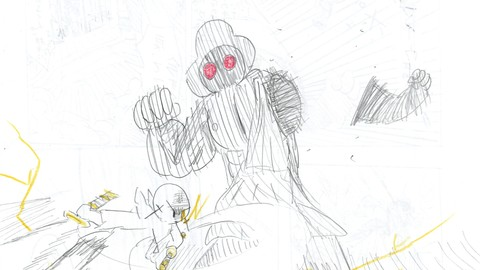
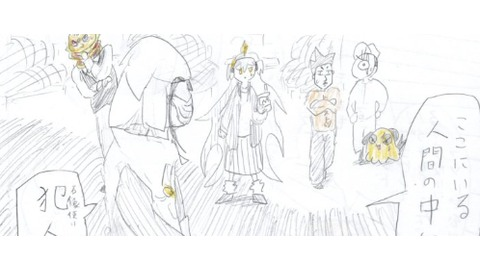
Add files via upload

diff --git a/index.html b/index.html
@@ -150,16 +150,16 @@ body{margin:0;background:#fff;color:#111;font-family:-apple-system,BlinkMacSyste
 <img class="episode-thumb" src="pages/thumb-episode05.jpg" alt="第5話 クソゲームかよ">
 <div class="episode-meta"><div class="episode-title">第5話 <span>クソゲームかよ</span></div></div>
 <div class="episode-read">読む</div></a><a class="episode-row" href="episode6.html" data-ep="6">
-<img class="episode-thumb" src="pages/thumb-episode06.jpg" alt="第6話 犯人探しまーす。">
+<img class="episode-thumb" src="pages/thumb-episode06.jpg" alt="第6話 サムネイル">
 <div class="episode-meta"><div class="episode-title">第6話 <span>犯人探しまーす。</span></div></div>
 <div class="episode-read">読む</div></a><a class="episode-row" href="episode7.html" data-ep="7">
-<img class="episode-thumb" src="pages/thumb-episode07.jpg" alt="第7話 西京家では最強だね。">
+<img class="episode-thumb" src="pages/thumb-episode07.jpg" alt="第7話 サムネイル">
 <div class="episode-meta"><div class="episode-title">第7話 <span>西京家では最強だね。</span></div></div>
 <div class="episode-read">読む</div></a><a class="episode-row" href="episode8.html" data-ep="8">
 <img class="episode-thumb" src="pages/thumb-episode08.jpg" alt="第8話 雷も超能力で止められるのだろうか？">
 <div class="episode-meta"><div class="episode-title">第8話 <span>雷も超能力で止められるのだろうか？</span></div></div>
 <div class="episode-read">読む</div></a><a class="episode-row" href="episode9.html" data-ep="9">
-<img class="episode-thumb" src="pages/thumb-episode09.jpg" alt="第9話 最近のCGはスゴイですね。">
+<img class="episode-thumb" src="pages/thumb-episode09.jpg" alt="第9話 サムネイル">
 <div class="episode-meta"><div class="episode-title">第9話 <span>最近のCGはスゴイですね。</span></div></div>
 <div class="episode-read">読む</div></a><a class="episode-row" href="episode10.html" data-ep="10">
 <img class="episode-thumb" src="pages/thumb-episode10.jpg" alt="第10話 ゆうり先生">
@@ -195,34 +195,34 @@ body{margin:0;background:#fff;color:#111;font-family:-apple-system,BlinkMacSyste
 <img class="episode-thumb" src="pages/thumb-episode20.jpg" alt="第20話 サムネイル">
 <div class="episode-meta"><div class="episode-title">第20話 <span>能力者バトルにおいて最強とは初見殺しがベスト</span></div></div>
 <div class="episode-read">読む</div></a><a class="episode-row" href="episode21.html" data-ep="21">
-<div class="episode-thumb placeholder thumbnail-pending" aria-label="第21話 サムネイル未設定"></div>
+<img class="episode-thumb" src="pages/thumb-episode21.jpg" alt="第21話 サムネイル">
 <div class="episode-meta"><div class="episode-title">第21話 <span>この世界は狂ってる...。</span></div></div>
 <div class="episode-read">読む</div></a><a class="episode-row" href="episode22.html" data-ep="22">
-<div class="episode-thumb placeholder thumbnail-pending" aria-label="第22話 サムネイル未設定"></div>
+<img class="episode-thumb" src="pages/thumb-episode22.jpg" alt="第22話 サムネイル">
 <div class="episode-meta"><div class="episode-title">第22話 <span>一番必要なのは</span></div></div>
 <div class="episode-read">読む</div></a><a class="episode-row" href="episode23.html" data-ep="23">
-<div class="episode-thumb placeholder thumbnail-pending" aria-label="第23話 サムネイル未設定"></div>
+<img class="episode-thumb" src="pages/thumb-episode23.jpg" alt="第23話 サムネイル">
 <div class="episode-meta"><div class="episode-title">第23話 <span>作戦は戦いの内</span></div></div>
 <div class="episode-read">読む</div></a><a class="episode-row" href="episode24.html" data-ep="24">
-<div class="episode-thumb placeholder thumbnail-pending" aria-label="第24話 サムネイル未設定"></div>
+<img class="episode-thumb" src="pages/thumb-episode24.jpg" alt="第24話 サムネイル">
 <div class="episode-meta"><div class="episode-title">第24話 <span>俺はここにいる</span></div></div>
 <div class="episode-read">読む</div></a><a class="episode-row" href="episode25.html" data-ep="25">
-<div class="episode-thumb placeholder thumbnail-pending" aria-label="第25話 サムネイル未設定"></div>
+<img class="episode-thumb" src="pages/thumb-episode25.jpg" alt="第25話 サムネイル">
 <div class="episode-meta"><div class="episode-title">第25話 <span>6月4日</span></div></div>
 <div class="episode-read">読む</div></a><a class="episode-row" href="episode26.html" data-ep="26">
-<div class="episode-thumb placeholder thumbnail-pending" aria-label="第26話 サムネイル未設定"></div>
+<img class="episode-thumb" src="pages/thumb-episode26.jpg" alt="第26話 サムネイル">
 <div class="episode-meta"><div class="episode-title">第26話 <span>6月5日</span></div></div>
 <div class="episode-read">読む</div></a><a class="episode-row" href="episode27.html" data-ep="27">
-<div class="episode-thumb placeholder thumbnail-pending" aria-label="第27話 サムネイル未設定"></div>
+<img class="episode-thumb" src="pages/thumb-episode27.jpg" alt="第27話 サムネイル">
 <div class="episode-meta"><div class="episode-title">第27話 <span>6月5日 その②</span></div></div>
 <div class="episode-read">読む</div></a><a class="episode-row" href="episode28.html" data-ep="28">
-<div class="episode-thumb placeholder thumbnail-pending" aria-label="第28話 サムネイル未設定"></div>
+<img class="episode-thumb" src="pages/thumb-episode28.jpg" alt="第28話 サムネイル">
 <div class="episode-meta"><div class="episode-title">第28話 <span>6月5日 その③</span></div></div>
 <div class="episode-read">読む</div></a><a class="episode-row" href="episode29.html" data-ep="29">
-<div class="episode-thumb placeholder thumbnail-pending" aria-label="第29話 サムネイル未設定"></div>
+<img class="episode-thumb" src="pages/thumb-episode29.jpg" alt="第29話 サムネイル">
 <div class="episode-meta"><div class="episode-title">第29話 <span>6月5日 その④</span></div></div>
 <div class="episode-read">読む</div></a><a class="episode-row" href="episode30.html" data-ep="30">
-<div class="episode-thumb placeholder thumbnail-pending" aria-label="第30話 サムネイル未設定"></div>
+<img class="episode-thumb" src="pages/thumb-episode30.jpg" alt="第30話 サムネイル">
 <div class="episode-meta"><div class="episode-title">第30話 <span>6月6日</span></div></div>
 <div class="episode-read">読む</div></a><a class="episode-row" href="episode31.html" data-ep="31">
 <img class="episode-thumb" src="pages/thumb-episode31.jpg" alt="第31話 サムネイル">
@@ -255,15 +255,15 @@ body{margin:0;background:#fff;color:#111;font-family:-apple-system,BlinkMacSyste
 <div class="episode-thumb placeholder">40</div>
 <div class="episode-meta"><div class="episode-title">第40話 <span>準備中</span></div><div class="episode-sub">公開準備中です</div></div>
 <div class="episode-status">準備中</div></div><a class="episode-row" href="episode41.html" data-ep="41">
-<div class="episode-thumb placeholder thumbnail-pending" aria-label="第41話 サムネイル未設定"></div>
+<img class="episode-thumb" src="pages/thumb-episode41.jpg" alt="第41話 サムネイル">
 <div class="episode-meta"><div class="episode-title">第41話 <span>6月6日 その⑫ー⑬ー⑭</span></div></div>
 <div class="episode-read">読む</div></a><a class="episode-row" href="episode42.html" data-ep="42">
-<div class="episode-thumb placeholder thumbnail-pending" aria-label="第42話 サムネイル未設定"></div>
+<img class="episode-thumb" src="pages/thumb-episode42.jpg" alt="第42話 サムネイル">
 <div class="episode-meta"><div class="episode-title">第42話 <span>もう付き合っちゃえよ！</span></div></div>
 <div class="episode-read">読む</div></a><a class="episode-row" href="episode43.html" data-ep="43">
-<div class="episode-thumb placeholder thumbnail-pending" aria-label="第43話 サムネイル未設定"></div>
+<img class="episode-thumb" src="pages/thumb-episode43.jpg" alt="第43話 サムネイル">
 <div class="episode-meta"><div class="episode-title">第43話 <span>終演曲</span></div></div>
-<div class="episode-read">読む</div></a><a class="episode-row" href="episode44.html" data-ep="44"><div class="episode-thumb placeholder thumbnail-pending" aria-label="第44話 サムネイル未設定"></div><div class="episode-meta"><div class="episode-title">第44話 <span>6月6日 その⑮ー⑯ー⑰</span></div></div><div class="episode-read">読む</div></a></div></section>
+<div class="episode-read">読む</div></a><a class="episode-row" href="episode44.html" data-ep="44"><img class="episode-thumb" src="pages/thumb-episode44.jpg" alt="第44話 サムネイル"><div class="episode-meta"><div class="episode-title">第44話 <span>6月6日 その⑮ー⑯ー⑰</span></div></div><div class="episode-read">読む</div></a></div></section>
 
 <section id="comics" class="jp-panel">
   <div class="comics-header">
